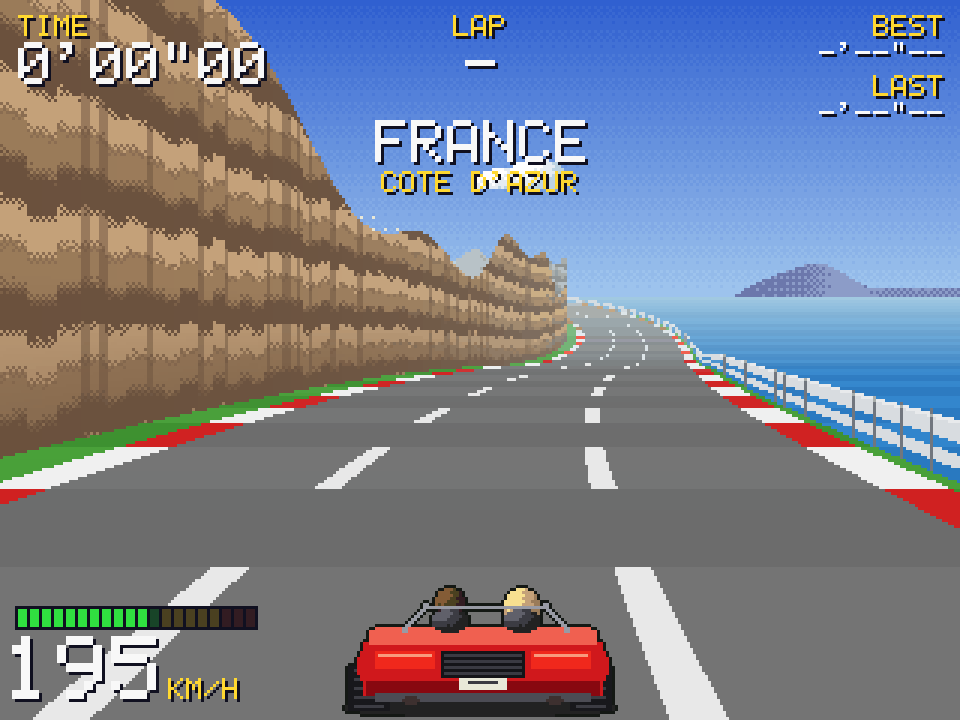
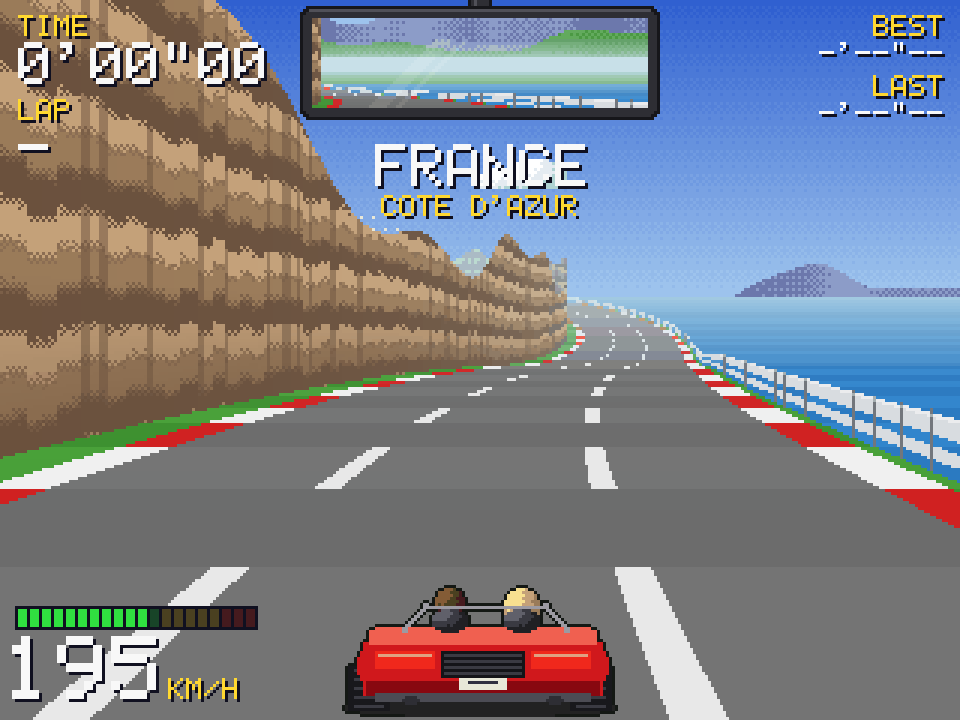
Show the mirror in the README screenshots, update TODO

diff --git a/TODO.md b/TODO.md
@@ -6,8 +6,9 @@ Base: `fc65858 Fix rendering: correct projection, pixel format, colors &
 sprites` (upstream master). Work line: kurvenrausch-003.x, bundles are
 cumulative from `fc65858`.
 
-Latest bundle: `kurvenrausch-003.1-biomes-audio-gamepad-fc65858.bundle`, tip is
-the "Update README, TODO and AGENTS" commit on `master`.
+Latest bundle: `kurvenrausch-004.1-rear-view-mirror-fc65858.bundle`, tip is
+the "Show the mirror in the README screenshots, update TODO" commit on `master`.
+004.1 builds on 003.1 (`fe8e0df`) and adds the rear-view mirror.
 
 History: 001.1 was built on `d66c91a`; upstream then added a rename and its own
 rendering fix, so the work was rebased onto `fc65858` (002.1). 003.1 adds the
@@ -17,6 +18,46 @@ Upstream master has since been fast-forwarded to `64fda32`, the tip of 002.1, so
 from `fc65858` regardless, as the rules require.
 The rebase notes: upstream's rename is kept, its rendering fix is superseded by
 the road/framebuffer rewrite, `Color::to_u32()` became `Color::argb()`.
+
+## Round 3 (004.1): rear-view mirror, done
+
+Requested: a mirror at the top of the screen showing what goes on behind the
+car. Delivered as a 112x30 mirror centred at the top, in a housing on a stem.
+
+Design decisions:
+
+- No separate renderer: `RoadView::direction = -1` makes `RoadRenderer` walk
+  the segments backwards from the camera (`cam_z = (z - camera) * direction`,
+  near/far edges and heights swapped, loop seam handled both ways). Lateral
+  positions keep their sign, which is exactly the mirror image (left stays
+  left), so nothing is flipped; curves accumulate with the same sign (a
+  right-hand bend curves right behind the car as well). Unit-tested in
+  `test_road_mirror`.
+- `RoadView::horizon` / `y_scale` let a view put eye level anywhere and keep
+  the main view's proportions in a framebuffer of another shape; 0 keeps the
+  old H/2 behaviour, the main view renders bit-identically to before.
+- The mirror camera sits at the car (not the chase camera), 700 units up,
+  depth 1.2 (narrower than the main view); constants at the top of game.cpp.
+  It renders into its own `Framebuffer` and `RoadRenderer` (the slices are
+  per renderer), then `Framebuffer::blit` copies it into the housing.
+- Backdrop: `BackdropView {horizon, zoom, mirror}`. Mirrored, the layers show
+  the opposite half of their panorama, flipped and scrolling the other way;
+  no sun (it is ahead). Cloud positions are now altitudes above the horizon.
+- Sprites: traffic shows its front in the mirror (`make_car_front`, driver on
+  the left as a mirror shows it), billboards their back
+  (`SpriteSheet::scenery_back`); other scenery is the same from both sides.
+- HUD: the lap counter moved from the top centre to under the lap time; the
+  country banner and the lap messages moved down a little to clear the mirror.
+
+Verified: builds warning-free, unit tests, ASan+UBSan on a full headless lap,
+on positions around the track including both sides of the lap seam, and on
+the live loop with the dummy drivers; `nix build` (now available, works);
+screenshots of every zone, the start gantry and billboard backs behind,
+traffic behind, uphill behind, bends.
+Not verified: how it looks/feels in interactive play on a real display.
+
+Ideas: a key to toggle the mirror; weather drops on the mirror; headlights of
+cars behind in a night stage.
 
 ## Round 2 (003.1): done
 

diff --git a/README.md b/README.md
@@ -40,6 +40,8 @@ weather and road markings, fading smoothly into one another:
 - Road markings per region: dashed white lines in Europe, double yellow centre
   line and white edge lines in the USA
 - AI traffic that changes lanes to pass; rear-ending a car slows you down
+- **Rear-view mirror** at the top of the screen: the road behind, drawn by the
+  same renderer looking back, with the fronts of the cars you have passed
 - Arcade handling with analog steering and pedals; centrifugal force, off-road
   slowdown, crashes into roadside objects
 - **Synthesised sound**: a six-cylinder engine that follows revs and load, with
@@ -122,7 +124,8 @@ include/
   components.hpp   Transform, Velocity, Player, Traffic, Camera
   track.hpp        Track, Segment, Zone, RoadTheme (the blendable look),
                    edges (rails, cliffs), scenery kinds, the route builder
-  road.hpp         road projection and rendering, cliffs, road sprites
+  road.hpp         road projection and rendering (ahead or, for the mirror,
+                   behind), cliffs, road sprites
   background.hpp   parallax sky, sun, clouds, mountains, hills
   weather.hpp      rain and snow particles
   sprites.hpp      procedural pixel-art sprite sheet
